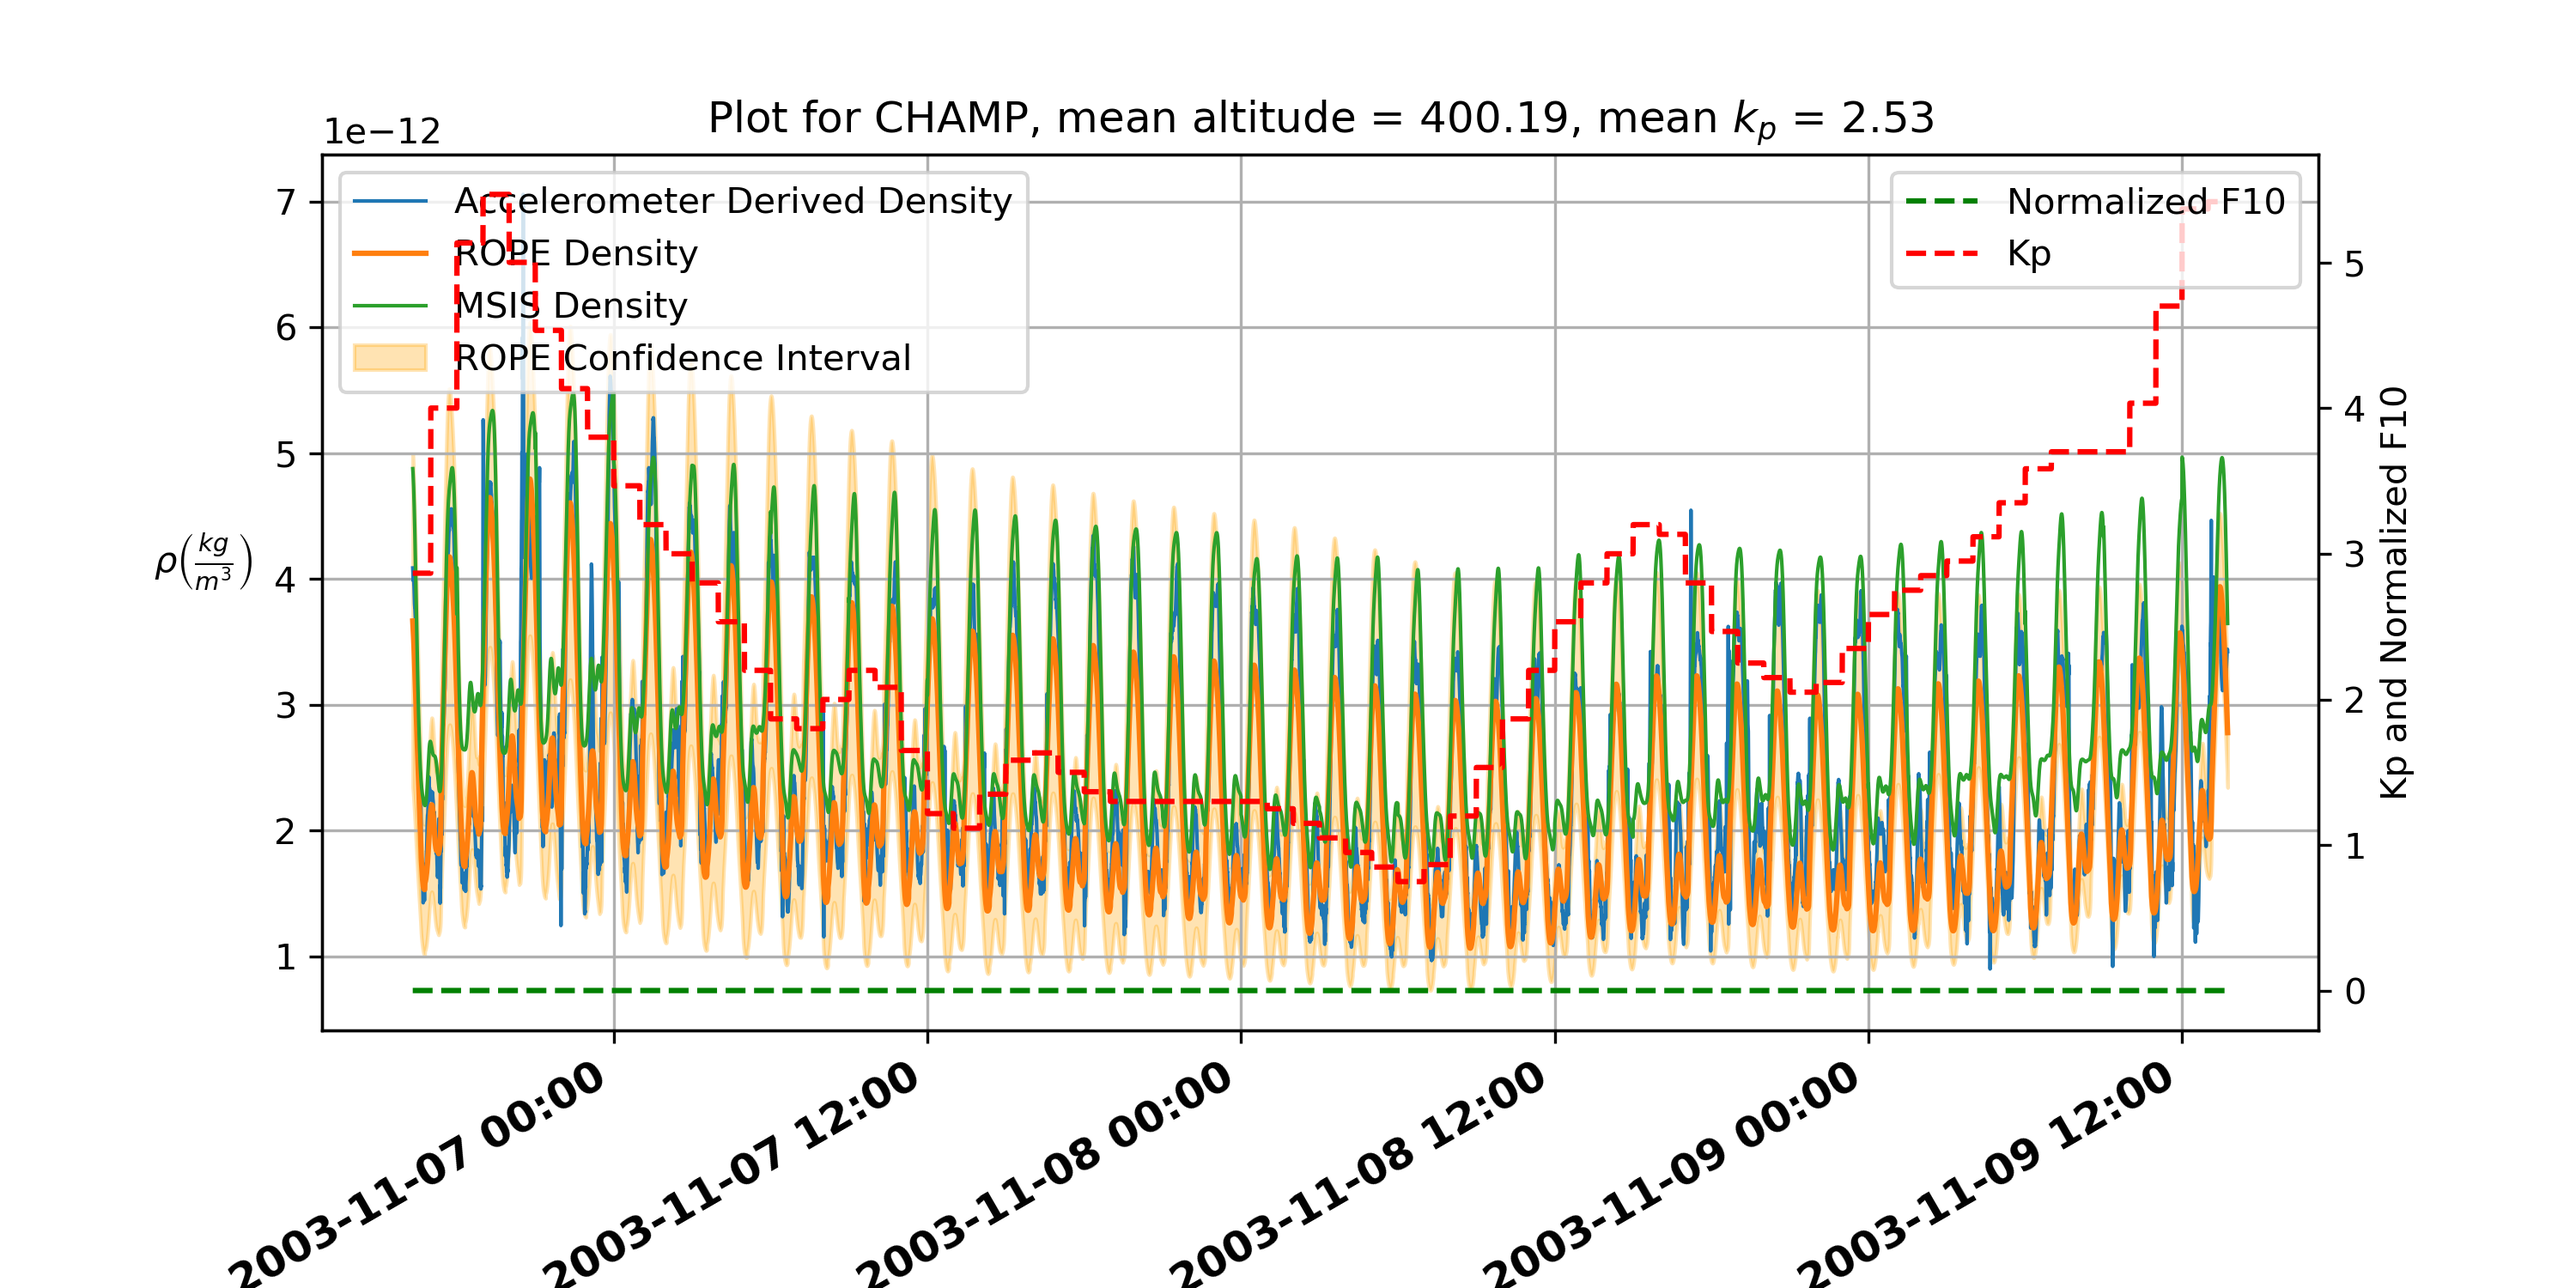
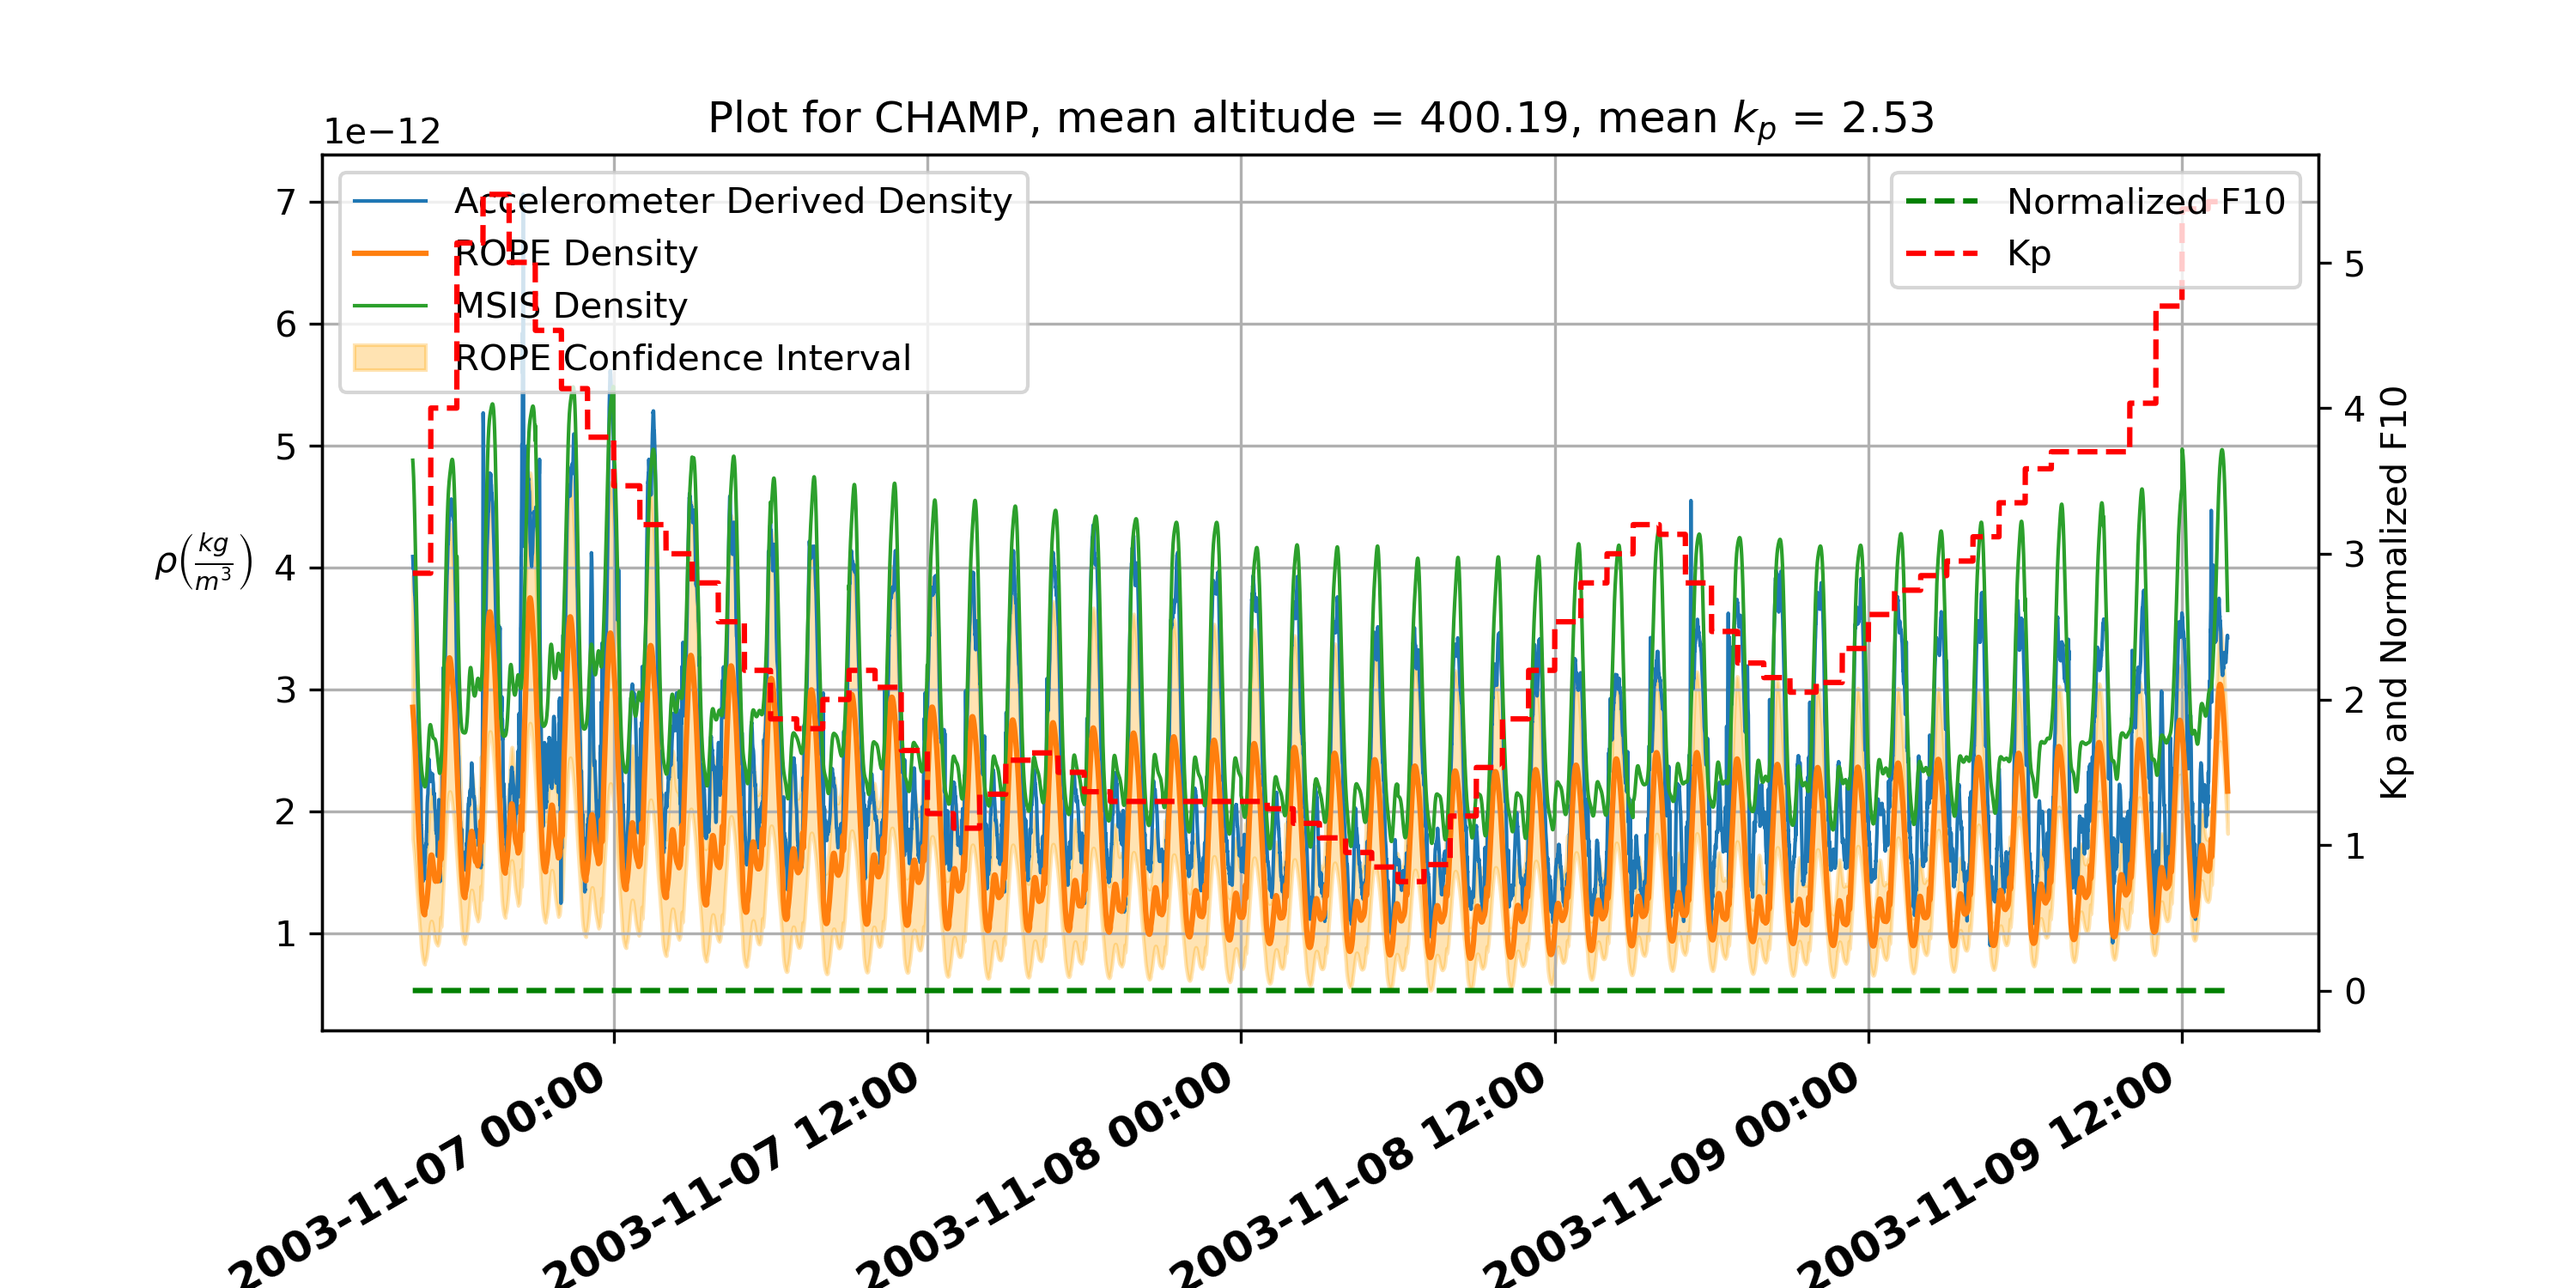
update 2025-05-15

Changed region(s): [[0.093, 0.3067, 0.899, 0.7667], [0.403, 0.2453, 0.899, 0.276], [0.093, 0.2453, 0.124, 0.276]]

diff --git a/_rope_msis/rope_class_hrd.py b/_rope_msis/rope_class_hrd.py
@@ -164,6 +164,7 @@ class rope_propagator:
     def discrete_to_continuous(self, A_d, B_d, delta_t):
         A_c = (1 / delta_t) * logm(A_d)
         B_c = A_c @ (np.linalg.inv(A_d - np.eye(A_d.shape[0])) @ B_d)
+        # B_c =  np.linalg.inv(np.eye(A_d.shape[0]) - A_d) @ (A_c @ B_d)
 
         return A_c, B_c
 
@@ -336,7 +337,7 @@ class rope_data_interpolator( PythonAtmosphere ):
         self.lt_low = 0.
         self.lt_high = 24 # 23
         self.lat_low = -90.   
-        self.lat_high = 90. # 81
+        self.lat_high = 81. # 81
         self.alt_low = 100.0
         self.alt_high = 980.0
         

diff --git a/main_python/rope_class_hrd.py b/main_python/rope_class_hrd.py
@@ -334,9 +334,9 @@ class rope_data_interpolator( PythonAtmosphere ):
         self.j2000: Frame = FramesFactory.getEME2000()
         self.utc: UTCScale = TimeScalesFactory.getUTC()
         self.lt_low = 0.
-        self.lt_high = 24 # 23
+        self.lt_high = 23 # 23
         self.lat_low = -90.   
-        self.lat_high = 90. # 81
+        self.lat_high = 81. # 81
         self.alt_low = 100.0
         self.alt_high = 980.0
         
